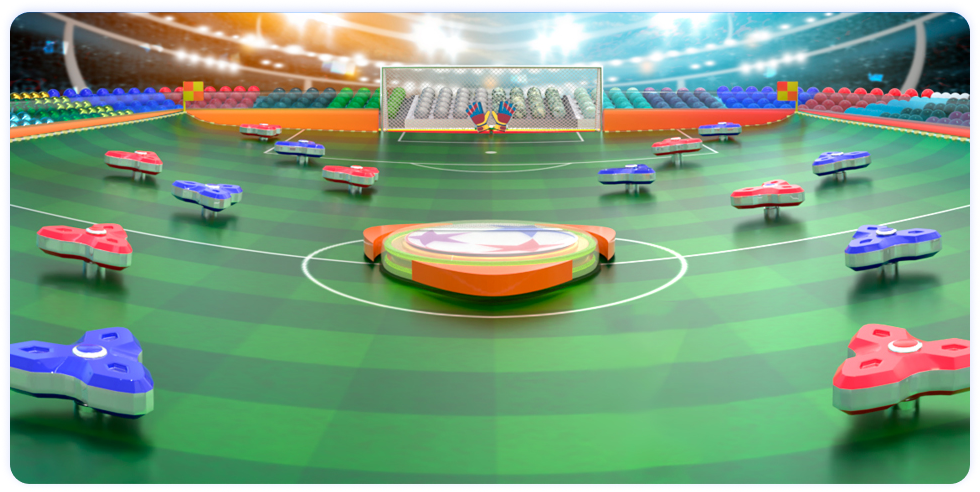
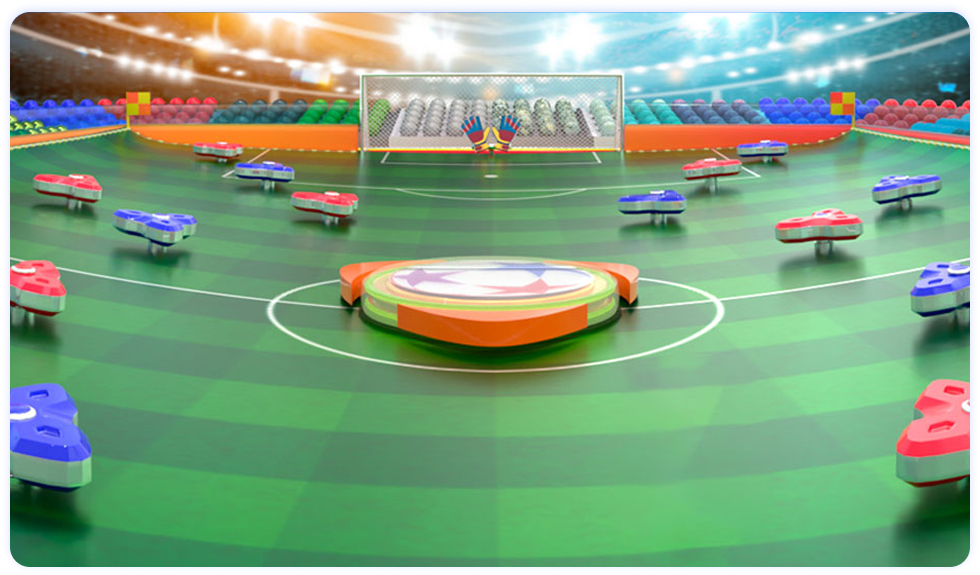
fix: update video ratio 16:9 - Epic GL-4032

diff --git a/src/components/sections/hero/index.tsx b/src/components/sections/hero/index.tsx
@@ -23,7 +23,7 @@ const HeroSection: React.FC<HeroSectionProps> = ({ title, description, ctaText, 
                 </div>
                 <div className={`${styles.imageWrapper} mt-10 md:mt-12 ${styles.animateFadeInUp}`} style={{ animationDelay: "0.6s" }}>
                     <img
-                        src="/images/hero/demo_marble_game.png"
+                        src="/images/hero/demo_marble_game.png?v=1"
                         alt="RNG Marble Games arena preview"
                         className={styles.image}
                         loading="eager"

diff --git a/src/components/sections/hero/hero-section.module.scss b/src/components/sections/hero/hero-section.module.scss
@@ -35,9 +35,9 @@
     @apply w-full h-auto block;
 }
 
-/* Keep iframe responsive with 980x492 (~ aspect-ratio: 980 / 492 ≈ 1.991) */
+/* Keep iframe responsive with 960x540 (~ aspect-ratio: 960 / 540 ≈ 1.777) */
 .mediaFrame {
-    aspect-ratio: 980 / 492;
+    aspect-ratio: 960 / 540;
     width: 100%;
     height: auto;
     display: block;
